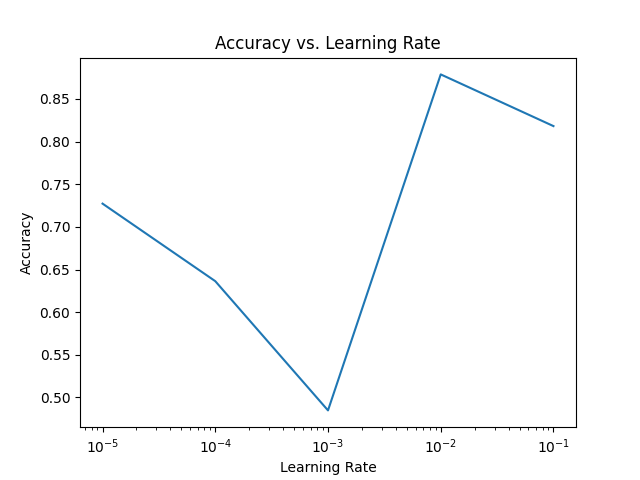
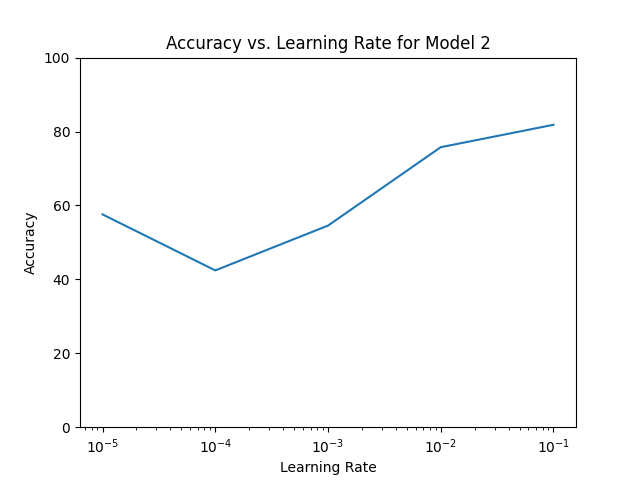
part2 completed

diff --git a/Assgn3/main.py b/Assgn3/main.py
@@ -65,20 +65,23 @@ def mlp_classification(attribute_set, training_set, test_set) :
 		y_pts = []
 		for x in range(5) :
 			x_pts.append(rate)
-			classifier = MLPClassifier(solver = 'sgd',hidden_layer_sizes = hidden_layer, learning_rate_init = rate)
+			classifier = MLPClassifier(max_iter = 2000,activation = 'logistic',solver = 'sgd',hidden_layer_sizes = hidden_layer, learning_rate_init = rate)
 			classifier.fit(X_train,Y_train)
 			Y_predicted = classifier.predict(X_test)
-			y_pts.append(calc_accuracy(Y_test, Y_predicted))
+			y_pts.append(calc_accuracy(Y_test, Y_predicted)*100)
 			rate /= 10
 
 		# line graph
 		fig = plt.figure()
 		plt.xlabel('Learning Rate')  # Add an x-label to the axes.
 		plt.ylabel('Accuracy')  # Add a y-label to the axes.
-		plt.title("Accuracy vs. Learning Rate")  # Add a title to the axes.
+		plt.title("Accuracy vs. Learning Rate for Model " + str(i+1))  # Add a title to the axes.
+		plt.ylim([0,100])
 		plt.semilogx(x_pts, y_pts)
-		file_name = "graph_architecture_" + str(i)
+		file_name = "graph_architecture_" + str(i+1)
 		plt.savefig(file_name)
+
+		print(y_pts)
 
 	# comapring accuracy vs architecture for each learning rate
 	rate = 0.1
@@ -88,36 +91,30 @@ def mlp_classification(attribute_set, training_set, test_set) :
 		exec_time = []
 		for j,x in zip(range(5),architectures) :
 			start_time = time.time()
-			classifier = MLPClassifier(activation = "logistic", solver = 'sgd',hidden_layer_sizes = x, learning_rate_init = rate)
+			classifier = MLPClassifier(max_iter = 2000,activation = "logistic", solver = 'sgd',hidden_layer_sizes = x, learning_rate_init = rate)
 			classifier.fit(X_train,Y_train)
 			exec_time.append(time.time()-start_time)
 			Y_predicted = classifier.predict(X_test)
 			x_pts.append("Model " + str(j))
-			y_pts.append(calc_accuracy(Y_test, Y_predicted))
-		print(exec_time,"\n")
+			y_pts.append(calc_accuracy(Y_test, Y_predicted)*100)
+
 		# bar graph
 		fig = plt.figure()
 		plt.xlabel('Model')  # Add an x-label to the axes.
 		plt.ylabel('Accuracy')  # Add a y-label to the axes.
 		plt.title("Accuracy vs Model for Learning Rate = " + str(rate))  # Add a title to the axes.
-		plt.ylim([0,1])
+		plt.ylim([0,100])
 		plt.bar(x = np.array(x_pts), height = np.array(y_pts), width = 0.4)
-		file_name = "graph_learning_rate_" + str(i) + ".png"
+		file_name = "graph_learning_rate_" + str(i+1) + ".png"
 		plt.savefig(file_name)
+		print(max(y_pts))
 
 		rate /= 10
-	
-
-
-
-
-	
 	
 
 def main() :
 
 	example_list = pd.read_csv("hcc-data.csv")
-	print(example_list)
 
 	attribute_names = []
 	attribute_values = {}
@@ -139,11 +136,14 @@ def main() :
 
 	attributes = attribute_set(attribute_names,attribute_values,target,target_values,non_continuous)
 
+	print(example_list)
 	#dividng the example list into training set (80%) and test set (20%) 
-	example_list = example_list.sample(frac = 1)
+	example_list = example_list.sample(frac = 1,random_state = 1000)
 	lim = round((0.8)*len(example_list.index))
 	training_set = example_list.iloc[0:lim]
 	test_set = example_list.iloc[lim:]
+
+	print(example_list)
 
 	#handling the missing values
 	handle_missing_values(attributes,training_set)
@@ -162,8 +162,8 @@ def main() :
 	training_set.iloc[:,-1] = target_train
 	test_set.iloc[:,-1] = target_test
 
-	print(training_set)
-	print(test_set)
+	print(example_list)
+
 
 	mlp_classification(attribute_set, training_set, test_set)
 
